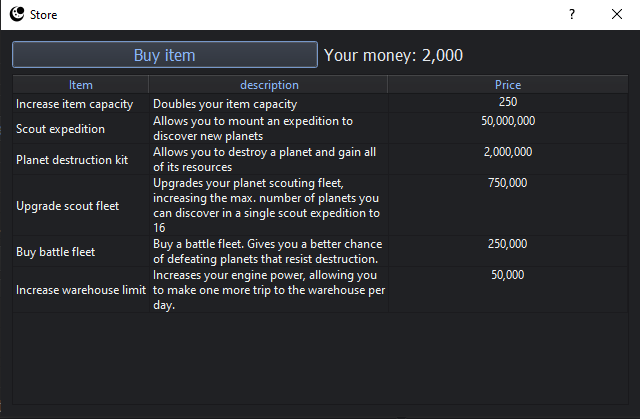
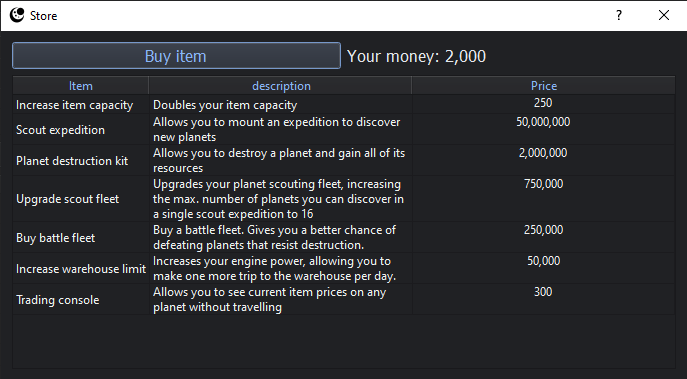
Update reference manual

diff --git a/README.rst b/README.rst
@@ -145,6 +145,11 @@ left area of the main game window.
   directly before the current planet. Travelling to a planet costs 100 of the player's money,
   and advances the current day by 1.
 
+* **"See item prices on planet" button**: Opens the trading console, which allows current item prices
+  on the selected planet to be seen without travelling to the planet. Pressing the Enter key while a
+  planet is selected will also open the trading console. The trading console can only be used if the
+  "Trading console" item has been purchased from the `"Store" window`_.
+
 * **Planet display table**: shows a list of all planets available to the player. Consists of two
   columns: The rightmost column, labelled "visited?", shows "yes" or "no" indicating whether
   the player has travelled to the planet. The leftmost column, labelled "Planet", shows the
@@ -322,6 +327,10 @@ purchases can be made per day, but this number is increased when the player reac
 
 * **Increase warehouse limit**: Buying this item will increase by 1 the number of warehouse trips
   that the player can make in a single day.
+
+* **Trading console**: Buying this item will enable the "See item prices on planet" button
+  in the `"Planets" section`_, allowing you to see current item prices on any planet without
+  travelling.
 
 **"Buy item" window**
 #####################
